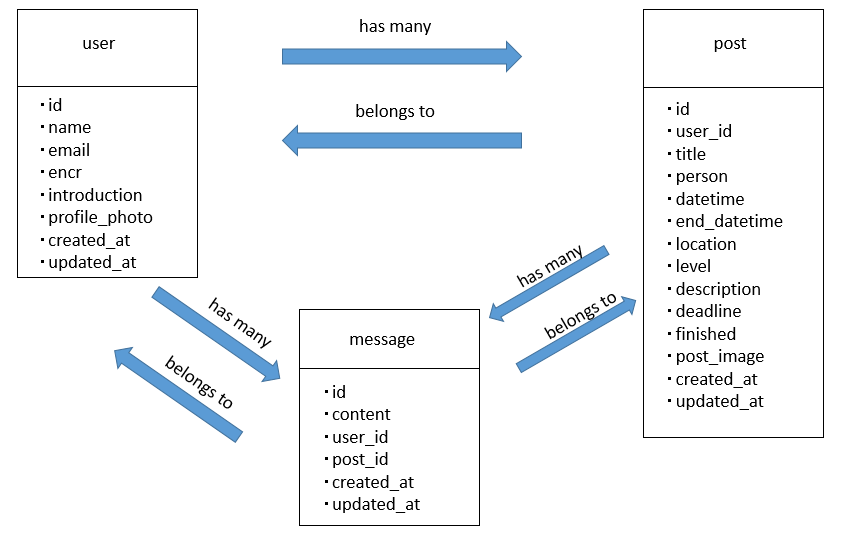
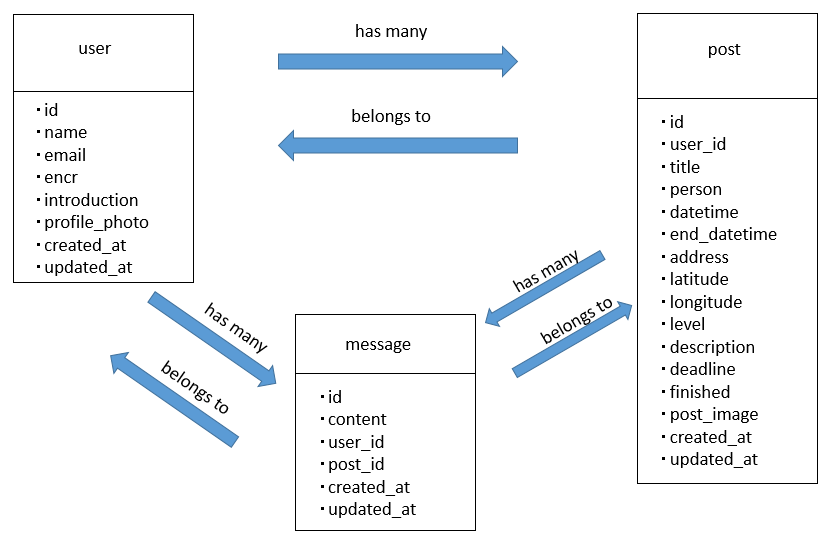
Fix README

diff --git a/README.md b/README.md
@@ -16,6 +16,22 @@ https://potepancamp-portfolio-02.herokuapp.com
 参加者：アカウントを登録し後、募集一覧より希望の募集を探します。
 気になる募集があったら、お問い合わせチャットより参加希望の連絡をします。
 
+## デモ画像
+ヘッダーの新規登録をクリックします。
+![demo-top](/app/assets/images/demo-top.png)
+アカウント登録画面で必要項目入力しアカウントを作成します。
+![demo-registration](/app/assets/images/demo-registration.png)
+ヘッダーの募集一覧をクリックすると現在募集されている募集の一覧が表示されます。
+![demo-post-index](/app/assets/images/demo-post-index.png)
+気になる募集をクリックすると募集の詳細が表示されます。参加希望や質問はお問い合わせチャットで行います。
+また自身が作成した募集については、編集・削除・募集終了は詳細画面から行えます。
+![demo-post-show-1](/app/assets/images/demo-post-show-1.png)
+![demo-post-show-2](/app/assets/images/demo-post-show-2.png)
+新たに募集を作成する場合はヘッダーの募集作成をクリックし、募集作成画面で必要項目を入力し登録します。
+![demo-post-new](/app/assets/images/demo-post-new.png)
+ヘッダーのマイページをクリックするとログインユーザーの名前と自己紹介が表示されます。またユーザー情報の編集を行うことができます。
+![demo-profile](/app/assets/images/demo-profile.png)
+
 ## ER図
 必要なカラムは以下の通りです。
 ![ja](/app/assets/images/ER図(ja).PNG)
@@ -35,6 +51,7 @@ https://potepancamp-portfolio-02.herokuapp.com
 - マイページ機能
 - 検索機能
 - チャット機能
+- GoogleMap表示機能
 
 ## こだわりポイント
 リアルタイムでのチャット機能を追加した点です。
